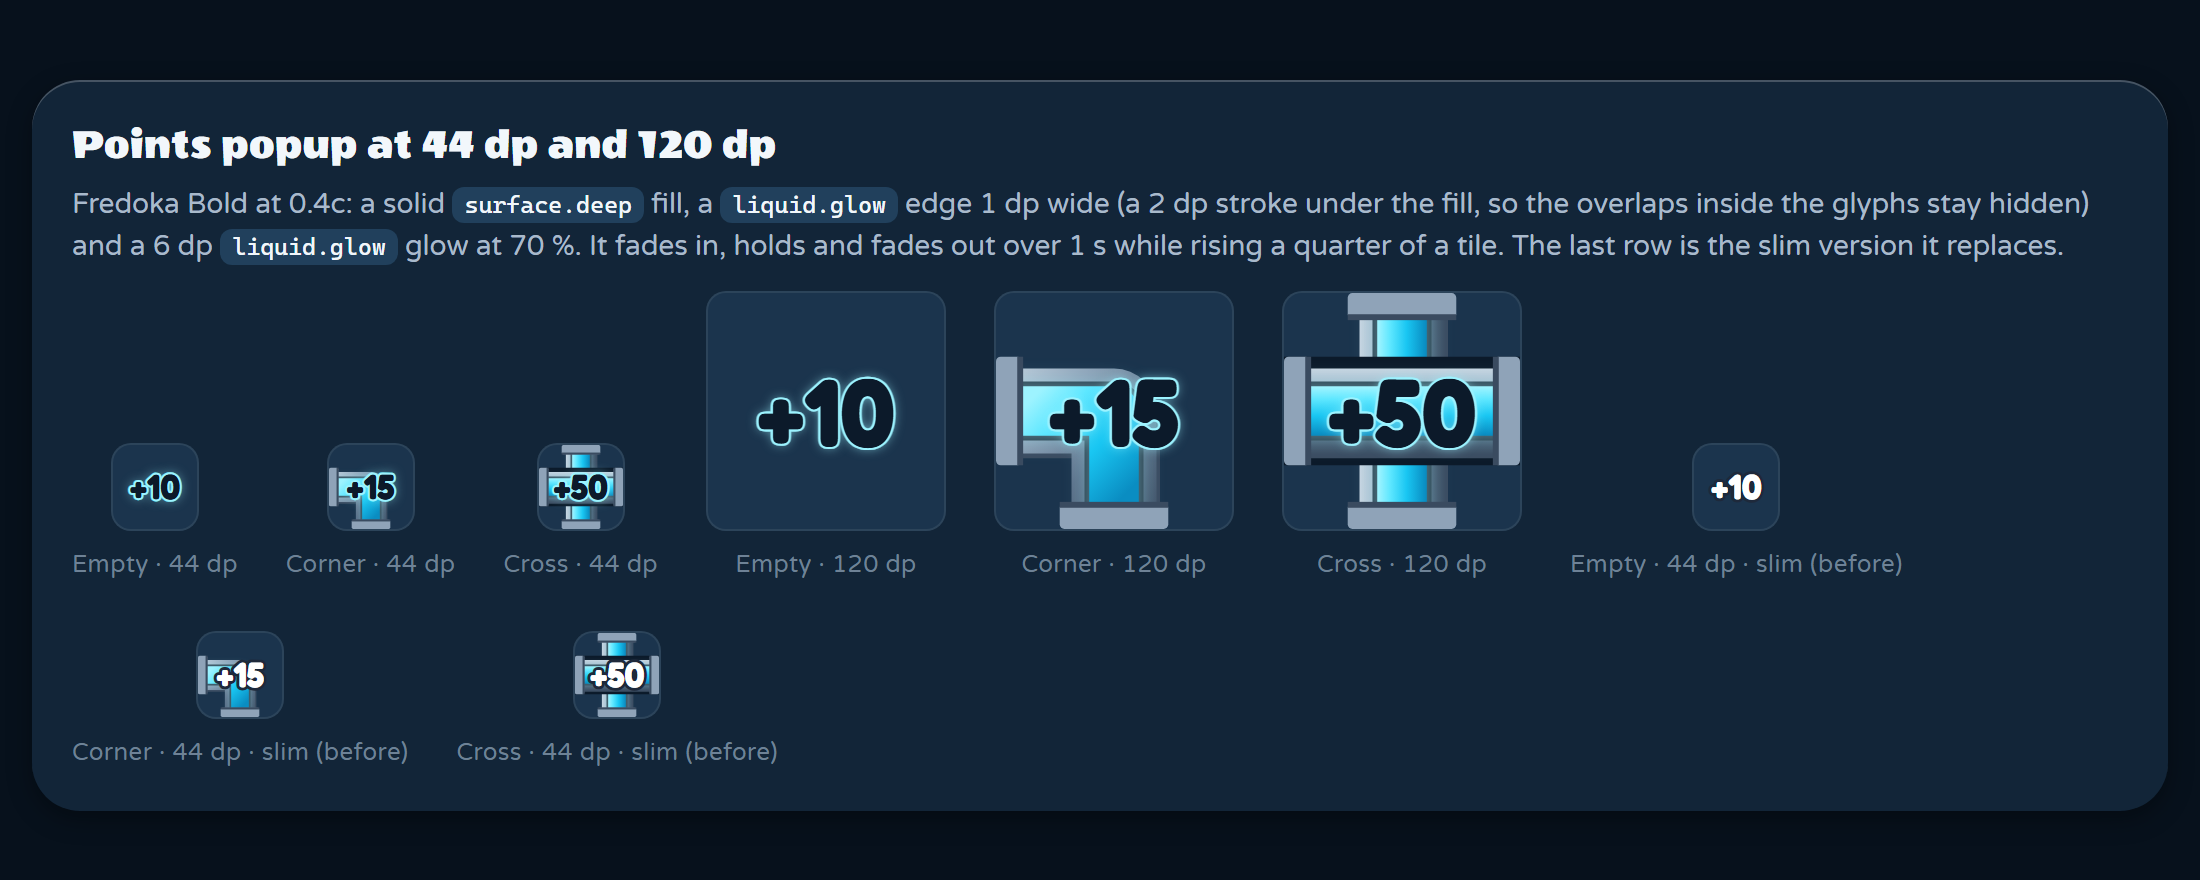
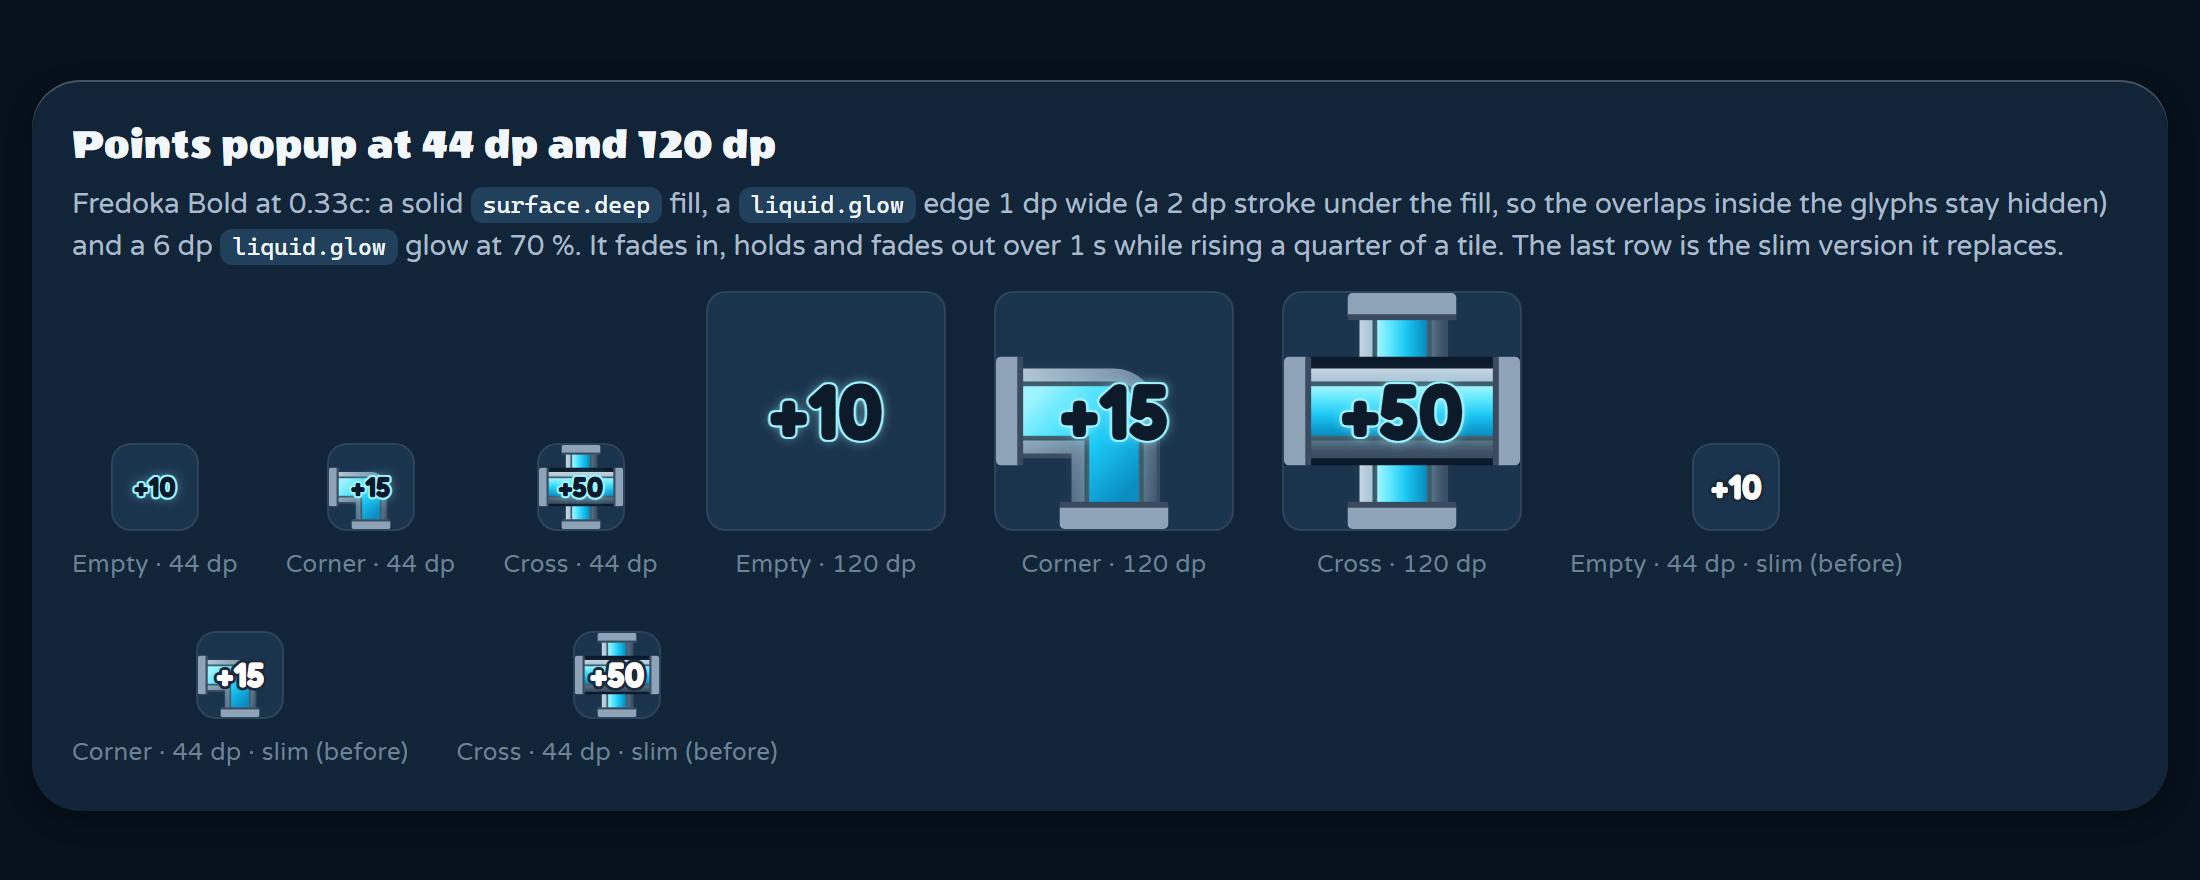
app-game-play-points-popup-design: shrink the popup text to 0.33 of the tile
Approved on #51 with a smaller number.

diff --git a/docs/design-system.html b/docs/design-system.html
@@ -910,7 +910,7 @@ td:first-child{color:var(--text-1)}
 
       <div class="panel" style="margin-top:24px">
         <h3 style="margin-bottom:6px">Points popup at 44 dp and 120 dp</h3>
-        <p class="small muted">Fredoka Bold at 0.4c: a solid <code>surface.deep</code> fill, a <code>liquid.glow</code> edge 1 dp wide (a 2 dp stroke under the fill, so the overlaps inside the glyphs stay hidden) and a 6 dp <code>liquid.glow</code> glow at 70 %. It fades in, holds and fades out over 1 s while rising a quarter of a tile. The last row is the slim version it replaces.</p>
+        <p class="small muted">Fredoka Bold at 0.33c: a solid <code>surface.deep</code> fill, a <code>liquid.glow</code> edge 1 dp wide (a 2 dp stroke under the fill, so the overlaps inside the glyphs stay hidden) and a 6 dp <code>liquid.glow</code> glow at 70 %. It fades in, holds and fades out over 1 s while rising a quarter of a tile. The last row is the slim version it replaces.</p>
         <div class="popup-sizes" id="popupSizes"></div>
       </div>
 
@@ -1243,7 +1243,7 @@ const popupSamples = [
   popupSamples.forEach(([t, o, text, name])=>{
     const art = t==='EMPTY' ? '' : pipeSVG(t, o);
     const label = `${name} · ${size} dp${variant ? ' · slim (before)' : ''}`;
-    ps.insertAdjacentHTML('beforeend', `<div class="step"><div class="cell" style="width:${size}px; height:${size}px">${art}<span class="popup ${variant}" style="font-size:${size*0.4}px">${text}</span></div><span class="caption">${label}</span></div>`);
+    ps.insertAdjacentHTML('beforeend', `<div class="step"><div class="cell" style="width:${size}px; height:${size}px">${art}<span class="popup ${variant}" style="font-size:${size*(variant ? 0.4 : 0.33)}px">${text}</span></div><span class="caption">${label}</span></div>`);
   });
 });
 

diff --git a/docs/design-system.md b/docs/design-system.md
@@ -509,7 +509,7 @@ At the 44 dp minimum cell a square is about 3.2 dp; the 6 × 6 checker was check
 - **Countdown bar fade**: when the liquid starts, the countdown bar fades from 100 % to 0 % opacity over `motion.quick`. Only its alpha changes; its slot stays laid out.
 - **Score bar fill**: when the score changes, the fill grows from where it is to the new length over 600 ms ease-out (`FastOutSlowInEasing`). A change while it is still moving continues from the current length. A new attempt empties the fill at once, without animating. The number shows the new score at once.
 - **Threshold sparkle**: when the moving fill reaches `stars.one`, `stars.two` or `stars.three` (the end of the bar), a 600 ms procedural burst at that point: 6–8 `liquid.glow` and `brass.300` particles flying out 6–14 dp and fading, over a brief `brass.300` glow flash (radius 16 dp, fading out in the first 300 ms). Each threshold sparkles once per attempt; a jump past several thresholds sparkles each one as the fill passes it. Points beyond `stars.three` do not sparkle.
-- **Points popup**: when a section scores, its points ("+10", "+15", "+25", "+50") appear centred on its tile, above the section and the liquid. Text: Fredoka Bold at 0.4 c. It is drawn in this order: a `liquid.glow` glow (blur 6 dp at 70 %), a 2 dp `liquid.glow` stroke, then the glyphs filled solid with `surface.deep` on top. The fill covers the inner half of the stroke, so a crisp 1 dp `liquid.glow` edge shows outside the glyph and the lines where the glyph's own contours overlap (inside the "+" and the "1") stay hidden. The fill is opaque, so the pipe and liquid never show through the digits. The edge is a fixed 1 dp at every zoom level, so it stays thin. There is no dark ink outline. Timing: fade in over 150 ms (`FastOutSlowInEasing`) while growing from 80 % to 100 %, hold 500 ms, fade out over 350 ms (`FastOutLinearInEasing`), rising 0.25 c over the full 1 000 ms. Glow, fill and stroke all take the popup's alpha. Each award has its own popup. Game time, so it freezes on pause. The board is always drawn in the Deep palette, so the popup uses the Deep `surface.deep` value in both themes.
+- **Points popup**: when a section scores, its points ("+10", "+15", "+25", "+50") appear centred on its tile, above the section and the liquid. Text: Fredoka Bold at 0.33 c (the slim popup used 0.4 c, which read as too large). It is drawn in this order: a `liquid.glow` glow (blur 6 dp at 70 %), a 2 dp `liquid.glow` stroke, then the glyphs filled solid with `surface.deep` on top. The fill covers the inner half of the stroke, so a crisp 1 dp `liquid.glow` edge shows outside the glyph and the lines where the glyph's own contours overlap (inside the "+" and the "1") stay hidden. The fill is opaque, so the pipe and liquid never show through the digits. The edge is a fixed 1 dp at every zoom level, so it stays thin. There is no dark ink outline. Timing: fade in over 150 ms (`FastOutSlowInEasing`) while growing from 80 % to 100 %, hold 500 ms, fade out over 350 ms (`FastOutLinearInEasing`), rising 0.25 c over the full 1 000 ms. Glow, fill and stroke all take the popup's alpha. Each award has its own popup. Game time, so it freezes on pause. The board is always drawn in the Deep palette, so the popup uses the Deep `surface.deep` value in both themes.
 - **Endpoint glows**: a soft circle behind the valve wheel and behind the finish ring, radius 0.24 c + 12 dp, radial gradient from the element's colour (`brass.500`, `success.500`) at the glow alpha to transparent. The alpha is `0.45 + 0.45 × (1 − cos(2π t / T)) / 2`, easing between 45 % and 90 %. The valve pulses with *T* = `motion.drift` (1 600 ms) while the countdown runs and settles at a static 60 % the moment the liquid flows. The finish ring pulses with *T* = `motion.pulse` (2 000 ms) until the level is won; then the finish flash takes over and the ring stays solid. Both follow game time, so they freeze on pause.
 - **Win**: finish ring flashes, board dims to 60 %, dialog pops in, stars stagger 80 ms each with a small brass particle burst.
 - **Leak**: droplet burst, board shakes 2 dp for 200 ms, then the dialog pops in after 500 ms so the player sees where it went wrong.

diff --git a/openspec/changes/app-game-play-points-popup-design/design.md b/openspec/changes/app-game-play-points-popup-design/design.md
@@ -13,7 +13,7 @@ The design system has no popup entry at all; the colours it does define for "ali
 - The popup look is described in the design system and the app follows it, with tokens only.
 
 **Non-Goals:**
-- Timing, rise, scale, size (0.4 c), font, or position of the popup. The fade and rise stay exactly as they are.
+- Timing, rise, scale, font, or position of the popup. The fade and rise stay exactly as they are.
 - Popups anywhere other than the playing field (the result dialog tally is unaffected).
 - A Daylight-theme variant: the game board is always drawn in the Deep palette.
 
@@ -28,16 +28,14 @@ The design system has no popup entry at all; the colours it does define for "ali
 4. **Glow is a `liquid.glow` blur, 6 dp radius at 70 %, not the 24 dp `G` level.** A dark number on the dark board needs a halo to separate it from the pipe art; the 24 dp `G` glow is sized for buttons and the finish ring and would cover a whole 44 dp tile and its neighbours. 6 dp at 70 % gives a tight, bright halo around the digits. It is drawn as a text shadow (`Shadow(LiquidGlow.copy(alpha = 0.7f × popup alpha), Offset.Zero, 6.dp.toPx())`) on a fill pass in `liquid.glow`, the same technique `ResultDialogLayout` uses for the score glow, so no native canvas or `BlurMaskFilter` is needed. The final values are settled on the design-system gallery (task 1.3) and recorded in the design system; the spec only requires "a soft glow".
    *Alternative*: `BlurMaskFilter` on the native canvas, as in `CountdownBar`. Rejected: more code for the same look, and `drawText` already supports shadows.
 
-5. **Style lives in a pure `PopupStyle` object in `PointsPopup.kt`.** Colours (`SurfaceDeep`, `LiquidGlow`), stroke width, glow radius and glow alpha, next to `PopupTiming`. `drawPopups` only reads it. This makes the tokens unit-testable on the JVM and replaces the private `POPUP_OUTLINE` constant. `POPUP_TEXT_FRACTION` moves there too, unchanged at 0.4.
+5. **Style lives in a pure `PopupStyle` object in `PointsPopup.kt`.** Colours (`SurfaceDeep`, `LiquidGlow`), stroke width, glow radius and glow alpha, next to `PopupTiming`. `drawPopups` only reads it. This makes the tokens unit-testable on the JVM and replaces the private `POPUP_OUTLINE` constant. `POPUP_TEXT_FRACTION` moves there too, reduced from 0.4 to 0.33 (decision 7).
 
 6. **Reduced motion: no change.** The glow is static (it does not pulse), and the fade and rise are gameplay feedback that §7.4 already leaves alone; the design system says so explicitly.
+
+7. **Text shrinks from 0.4 c to 0.33 c.** The issue title says the indicator is too large. On approving the gallery (task 1.4), the product owner asked for a smaller number as well as the thinner edge. 0.33 c (about 14.5 sp at the 44 dp minimum cell) keeps "+50" well inside its tile, also at full rise. It is still sized to the tile, so it scales with zoom.
 
 ## Risks / Trade-offs
 
 - [The dark fill on a dark empty tile could read as a hole] → The glow and stroke carry the shape; verified on the gallery over an empty tile, a filled straight and a filled corner (task 1.3) and on the emulator screenshot (task 3.1) before the change is accepted on the issue.
 - [The three passes multiply text drawing per popup] → At most a handful of popups are on screen at once and the `TextLayoutResult` is measured once and reused, so the cost is negligible.
 - [Shadow blur radius is in px on `drawText`] → Converted from dp per frame with the field's density; covered by the unit test of `PopupStyle` (dp values) and the screenshot check (rendered).
-
-## Open Questions
-
-- Whether "too large" in the issue title also means a smaller text size. The body only asks about the border, and a thin border already makes the number look lighter; the size stays at 0.4 c unless the product owner asks for a change when approving the gallery screenshots (task 1.4). Changing the fraction would be a one-constant change and does not affect the tasks.

diff --git a/openspec/changes/app-game-play-points-popup-design/tasks.md b/openspec/changes/app-game-play-points-popup-design/tasks.md
@@ -7,11 +7,11 @@ Tracking issue: [#51 Section score indicator is too large](https://github.com/he
 - [x] 1.1 Add **Points popup** to `docs/design-system.md` §7.2: the existing timing (150 ms fade-in at 80 → 100 % size, 500 ms hold, 350 ms fade-out, rise of 0.25 c over 1 000 ms), text 0.4 c, and the look: `surface.deep` fill over a 2 dp `liquid.glow` stroke (a 1 dp visible edge), `liquid.glow` glow (6 dp blur at 70 %), all at the popup alpha (design decisions 1–4); verify every token named exists in §2 and the timings match `PopupTiming`
 - [x] 1.2 Add the popup to §7.4 (keeps its fade and rise, static glow) and add a "Points popup" row to the §12 *What changed from the slim version* table (white fill with a 3 dp `InkDark` outline → `surface.deep` fill, 1 dp `liquid.glow` edge and glow); verify the section reads consistently with §1.1 ("no 3 px ink borders")
 - [x] 1.3 Add a popup sample to the `docs/design-system.html` gallery: "+10" over an empty tile, "+15" over a filled corner and "+50" over a filled cross, at 44 dp and 120 dp cells; verify in a browser that the number reads at 44 dp over all three (else adjust the glow radius/alpha and record the values in 1.1) — reads at 44 dp over all three; the glow values stay at 6 dp / 70 %. A 1 dp stroke on top outlined the overlapping contours inside Fredoka's "+" and "1", so the stroke moved under the fill at 2 dp (design decision 1)
-- [ ] 1.4 Attach screenshots of the gallery sample to issue #51 and get the product owner's approval there, including whether the 0.4 c size stays (design, Open Questions); verify approval is noted on the issue before starting group 2
+- [x] 1.4 Attach screenshots of the gallery sample to issue #51 and get the product owner's approval there, including whether the 0.4 c size stays (design, Open Questions); verify approval is noted on the issue before starting group 2 — approved by the product owner, with the text reduced from 0.4 c to 0.33 c (design decision 7); design system and gallery updated
 
 ## 2. Style and drawing
 
-- [ ] 2.1 Add `PopupStyle` to `app/.../ui/game/PointsPopup.kt` (text fraction 0.4, fill `SurfaceDeep`, stroke `LiquidGlow` 2 dp (1 dp visible), glow `LiquidGlow` 6 dp at 0.7) and a pure `glowColor(alpha)` that scales the glow alpha by the popup alpha; verify JVM unit tests in `PointsPopupTest`: the tokens equal the design-system values, the fill is opaque, `glowColor(1f)` has alpha 0.7, `glowColor(0.5f)` 0.35 and `glowColor(0f)` 0
+- [ ] 2.1 Add `PopupStyle` to `app/.../ui/game/PointsPopup.kt` (text fraction 0.33, fill `SurfaceDeep`, stroke `LiquidGlow` 2 dp (1 dp visible), glow `LiquidGlow` 6 dp at 0.7) and a pure `glowColor(alpha)` that scales the glow alpha by the popup alpha; verify JVM unit tests in `PointsPopupTest`: the tokens equal the design-system values (text fraction 0.33), the fill is opaque, `glowColor(1f)` has alpha 0.7, `glowColor(0.5f)` 0.35 and `glowColor(0f)` 0
 - [ ] 2.2 Rewrite `drawPopups` in `PlayingField.kt`: measure once, then draw the glow pass (text shadow), the 2 dp `liquid.glow` stroke and the `surface.deep` fill on top, all at the frame alpha and inside the existing scale and rise; remove `POPUP_OUTLINE`, `POPUP_TEXT_FRACTION` and the `InkDark`/white passes; add a `@Preview` of a popup over a filled straight; verify `./gradlew :app:testDebugUnitTest` passes and the preview matches the gallery
 
 ## 3. Instrumented tests

diff --git a/openspec/changes/app-game-play-points-popup-design/proposal.md b/openspec/changes/app-game-play-points-popup-design/proposal.md
@@ -13,7 +13,7 @@ When a section has run full, its points ("+10", "+15", "+25", "+50") pop up on t
   - Its look: the glyphs are **filled solid with `surface.deep`**, edged with a **thin 1 dp `liquid.glow` edge**, over a **soft `liquid.glow` glow** (blur 6 dp at 70 %). The glow carries the number on the dark board; the dark fill keeps the digits' counters open.
   - §7.4 *Reduced motion*: the popup is gameplay feedback; it keeps its fade and rise (no change), and its glow is static anyway.
   - The `docs/design-system.html` gallery gets a popup sample over an empty tile, a filled straight and a filled corner.
-- **App complies with the design system**: `drawPopups` in `PlayingField` draws the glow, the `surface.deep` fill and the `liquid.glow` stroke, replacing the `InkDark` outline and white fill. Text size (0.4 c), font, position, timing, rise and scale stay as they are.
+- **App complies with the design system**: `drawPopups` in `PlayingField` draws the glow, the `surface.deep` fill and the `liquid.glow` stroke, replacing the `InkDark` outline and white fill. The text shrinks from 0.4 to 0.33 of the tile (agreed on #51); font, position, timing, rise and scale stay as they are.
 - No `core` change: awards, points and their timing are unchanged.
 
 ## Capabilities
